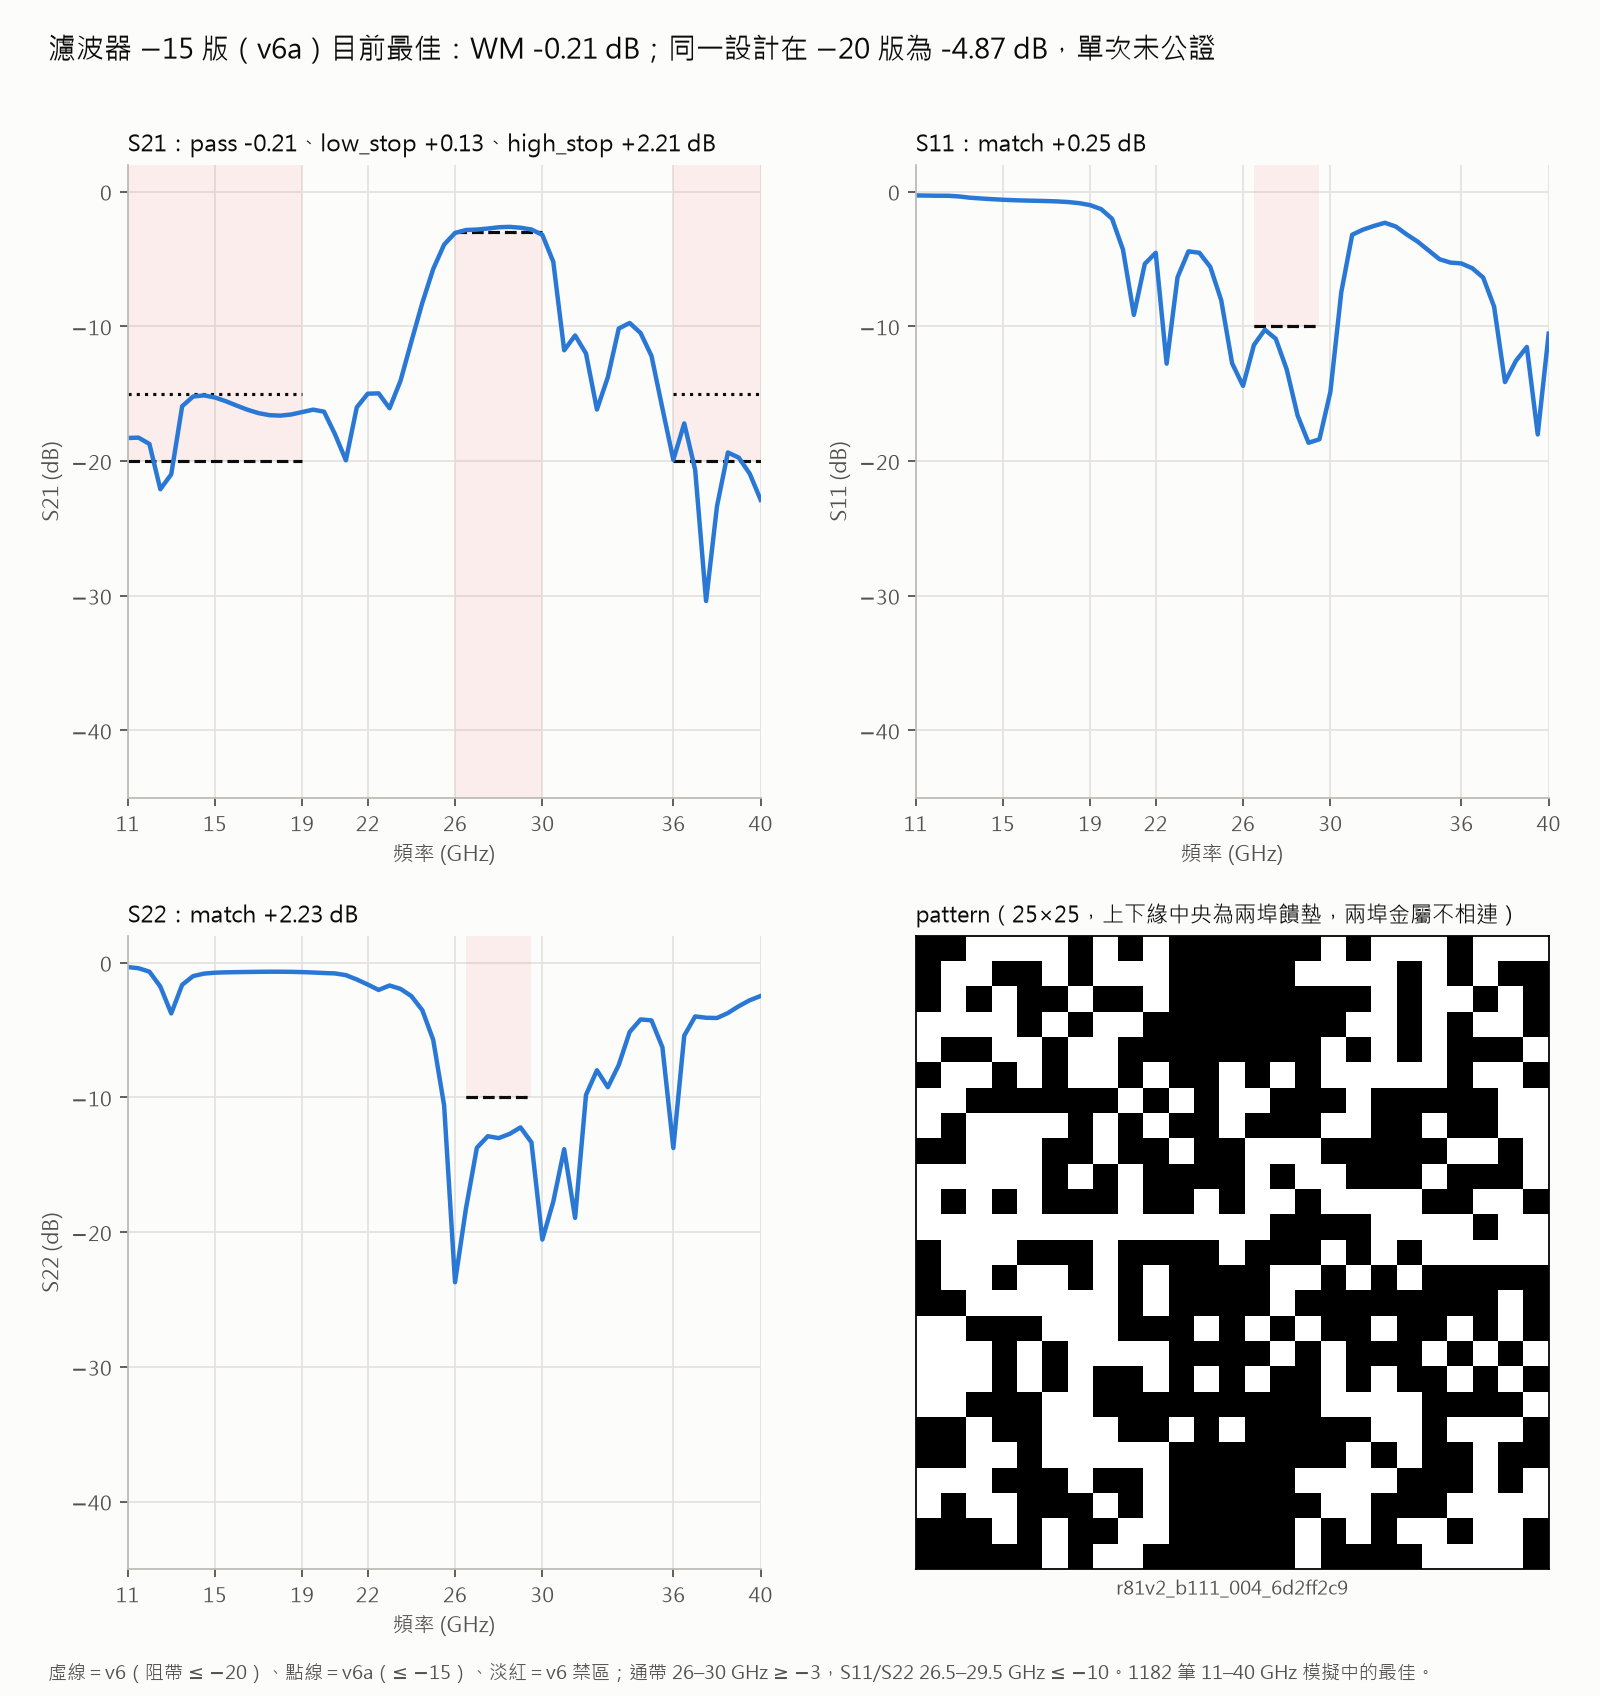
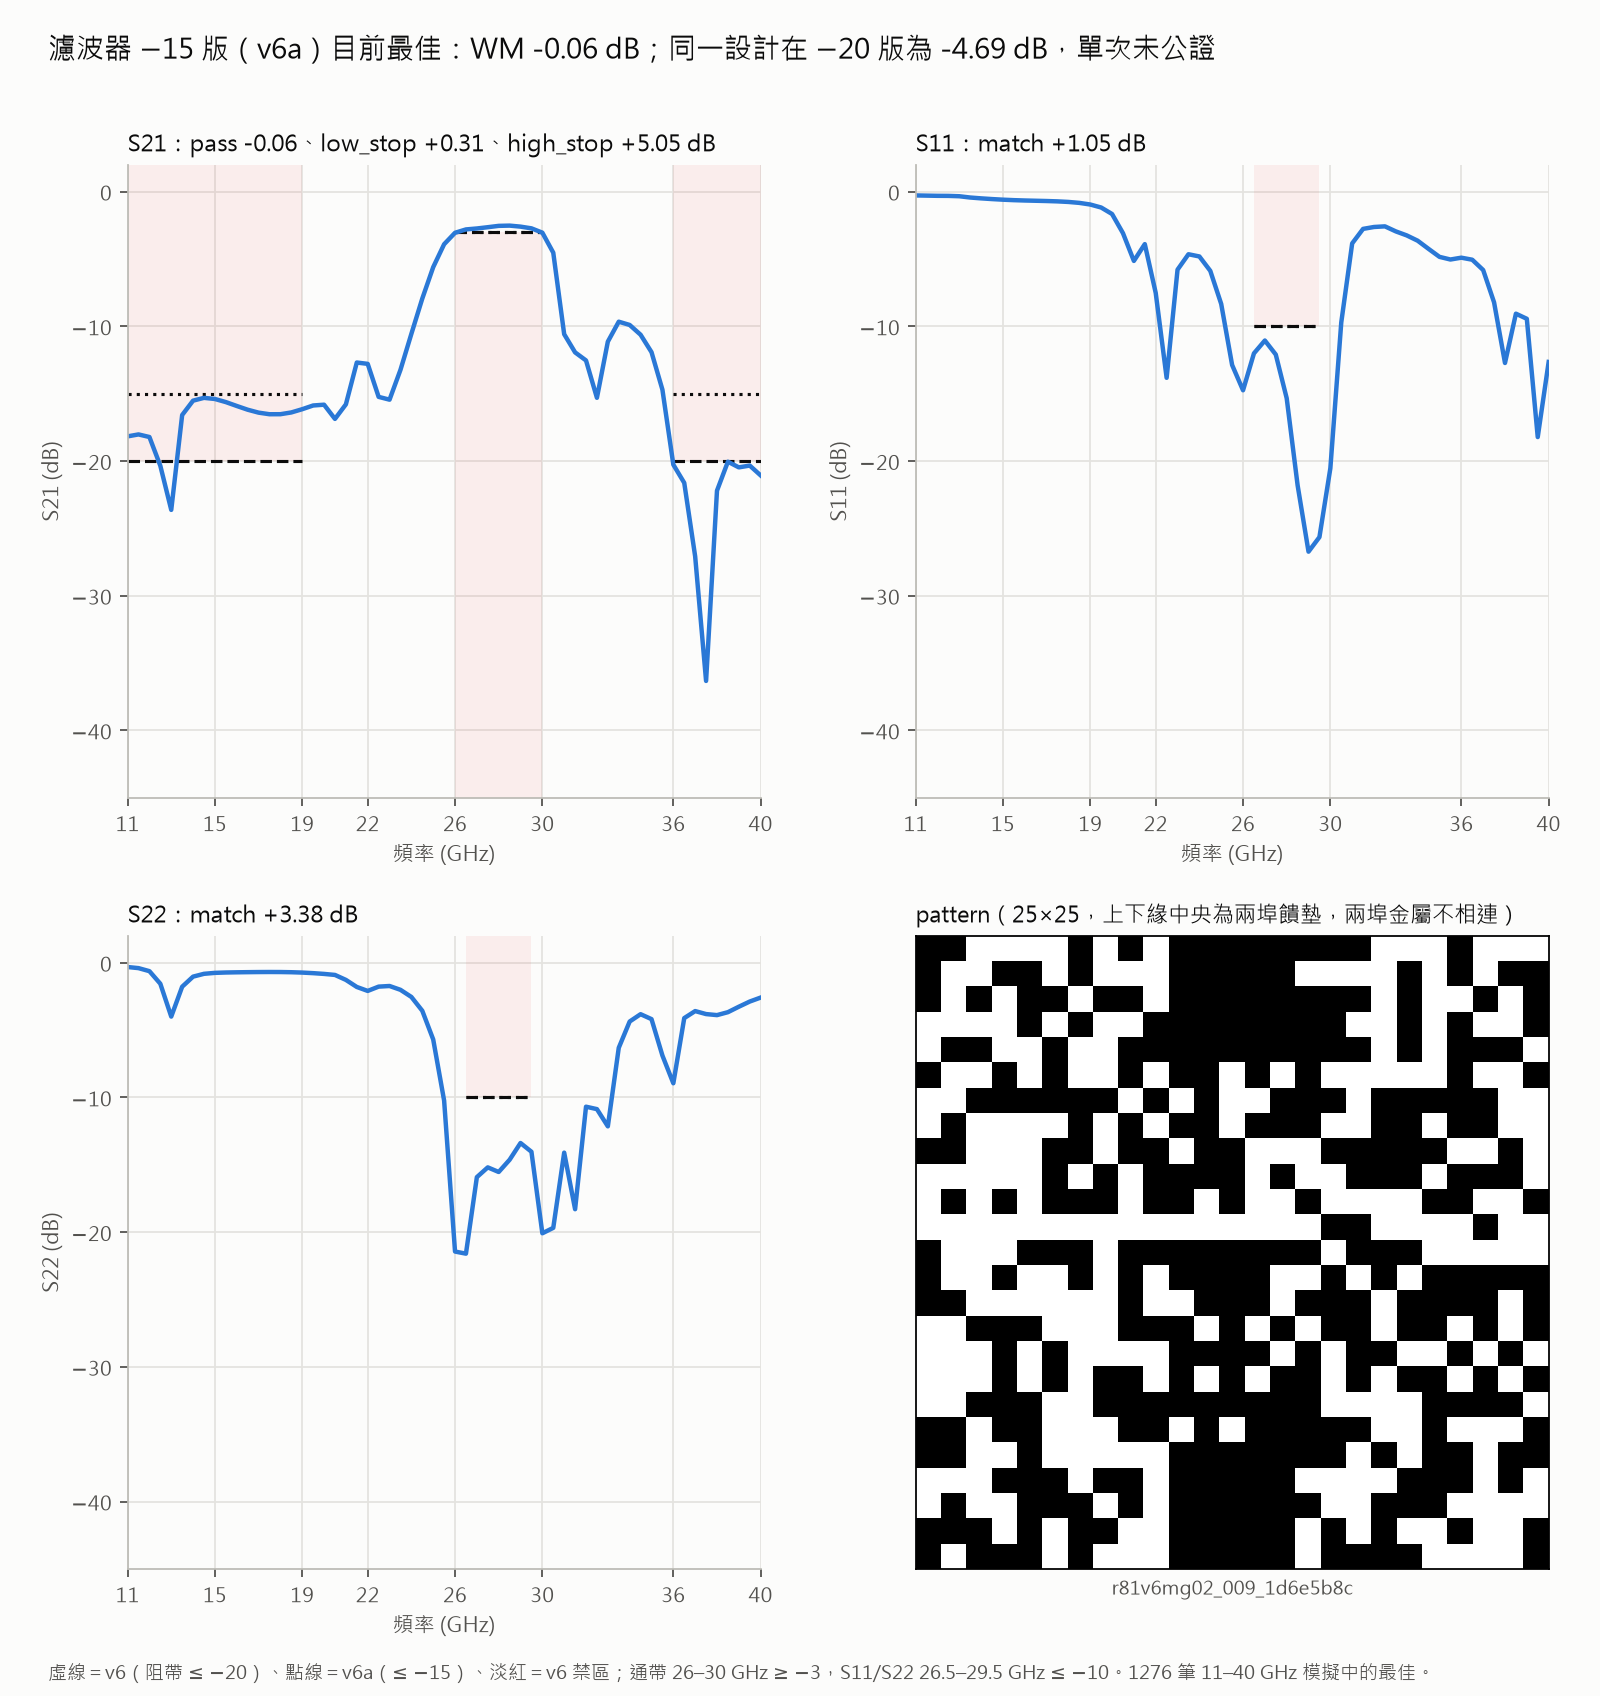
R81 圖：納入 R89 整合批（mgNN）、加「整合移植」事件、太近的事件只畫線；v6a 最佳 mg02_009 −0.055

diff --git a/script/figs/r81_v6.py b/script/figs/r81_v6.py
@@ -2,7 +2,7 @@
 
 用法：python -m script.figs.r81_v6 <輸出資料夾> [--id r81v2_b71_003_f8fd2069]
 輸出：r81v6_climb.png、r81v6a_climb.png（−15 版尺回算全部）、r81v6_best_card.png、r81v6a_best_card.png（−15 版最佳，各格 margin 用 −15 版；各格正方形）。
-資料：v2_v001 資料根中 11–40 GHz 量測的 store（補量 r81v6m02 與 b62 起各批），依批號排序；重測（~rep）不計入。
+資料：v2_v001 資料根中 11–40 GHz 量測的 store（補量 r81v6m02、b62 起各批、R89 整合批 mgNN），依批號排序；重測（~rep）不計入。
 """
 import argparse
 import re
@@ -21,23 +21,35 @@ V6, V6A = sm.REPO / "configs" / "dual_r81_v6.yaml", sm.REPO / "configs" / "dual_
 EVENTS = [(62, "斷開＋大步變異 30 格：壓掉 13.5 GHz 峰"), (67, "饋墊附近細步"), (71, "12 格＋前 10 名起點"),
           (74, "交界推移"), (76, "任意切縫重切"), (78, "取消選樣放寬"), (85, "變化量模型試用"), (89, "利用臂改用變化量模型"),
           (92, "爬山全交變化量模型"), (96, "目標改 −15 版＋探索臂改用變化量模型"), (101, "兩模型平均打分"),
-          (107, "爬山改上下文模型＋利用臂改平均"), (112, "利用／探索臂小步限制")]
+          (107, "爬山改上下文模型＋利用臂改平均"), (112, "利用／探索臂小步限制"),
+          (1001, "整合移植（R89）")]
+MG_AFTER = {1: 112, 2: 113}   # 整合批 mgNN 實際量測時段接在哪一批之後
 
 
 def rows_v6(cfg, grid):
     """11–40 GHz store 的全部 ok 實測，依（批號, store, id）排序；同圖只留第一筆。"""
     stores = [s for s in sm.V2_DATASET.glob("dedust_r81v6*s?")
-              if re.search(r"(m02|b\d+)s\d$", s.name) and (s / "results.json").exists()]
-    key = lambda s: 0 if "m02" in s.name else int(re.search(r"b(\d+)s\d$", s.name).group(1))
+              if re.search(r"(m02|b\d+|mg\d+)s\d$", s.name) and (s / "results.json").exists()]
+
+    def key(s):
+        """排序位置與批號：整合批 mgNN 排在 MG_AFTER 那一批之後，批號記成 1000＋NN（事件標註用）。"""
+        if "m02" in s.name:
+            return 0, 0
+        m = re.search(r"mg(\d+)s\d$", s.name)
+        if m:
+            return MG_AFTER.get(int(m.group(1)), 999) + 0.5, 1000 + int(m.group(1))
+        b = int(re.search(r"b(\d+)s\d$", s.name).group(1))
+        return b, b
+
     rows, seen = [], set()
-    for s in sorted(stores, key=lambda s: (key(s), s.name)):
+    for s in sorted(stores, key=lambda s: (key(s)[0], s.name)):
         for r in sm.load_store(s, grid):
             if "~rep" in r["id"] or r["sha"] in seen:
                 continue
             sc = sm.true_wm(r, cfg, grid)
             if sc:
                 seen.add(r["sha"])
-                r.update(batch=key(s), wm=sc["worst_margin"], margins=sc["margins"])
+                r.update(batch=key(s)[1], wm=sc["worst_margin"], margins=sc["margins"])
                 rows.append(r)
     return rows
 
@@ -47,11 +59,13 @@ def climb_panel(ax, x, wm, best, batches, lo, hi, label_events=True, events_from
     ax.step(x, best, where="post", color=LINE, lw=2.2, label=f"累計最佳（目前 {best[-1]:+.2f}，單次）")
     ax.axhline(0, color=rp.INK, lw=1.2, ls="--")
     ax.text(x[0] + 3, (hi - lo) * 0.015, "達標 WM = 0", fontsize=9, color=rp.INK, va="bottom")
+    last = -np.inf
     for b, text in EVENTS:
         if b in batches and b >= events_from:
             k = batches.index(b)
             ax.axvline(x[k], color=MARK, lw=0.8, ls=":")
-            if label_events:
+            if label_events and x[k] - last >= (x[-1] - x[0]) * 0.025:   # 太近的事件只畫線不寫字，免得疊字
+                last = x[k]
                 off = (x[-1] - x[0]) * 0.006 * (1 if text_right else -1)
                 ax.text(x[k] + off, lo + (hi - lo) * 0.02, text, rotation=90, ha="left" if text_right else "right",
                         va="bottom", fontsize=8.5, color=MARK, bbox=dict(facecolor=rp.SURF, edgecolor="none", pad=1.5))
